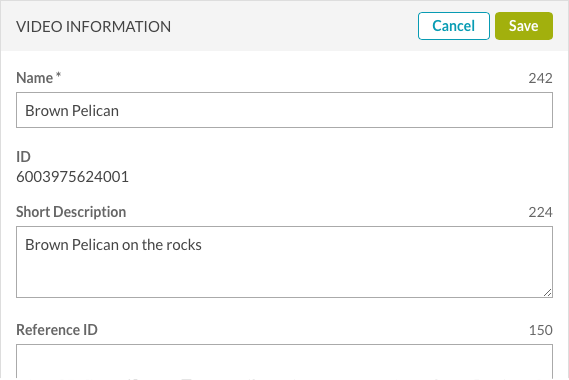
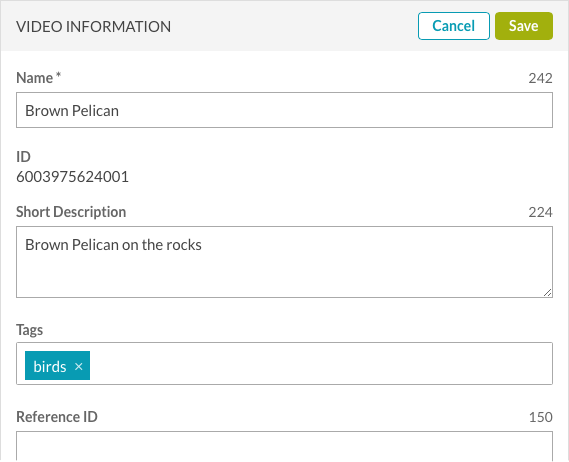
updates

diff --git a/_site/get-started/step-step-video-cloud-studio-publishing-workflow.html b/_site/get-started/step-step-video-cloud-studio-publishing-workflow.html
@@ -960,14 +960,11 @@ function doGTranslate(lang_pair) {if(lang_pair.value)lang_pair=lang_pair.value;i
     <p>In this task you will edit video properties.</p>
     <ol class="bcls-tasklist-restart">
       <li>In Video Cloud Studio, click <strong>Media</strong> to open the Media module.</li>
-      <li>Click on the title for the <strong>Brown Pelican</strong> video, locate the <strong>Video Information</strong> section and then click <strong>Edit</strong>. Set the <strong>Short Description</strong> to <code translate="No">Pelican on the rocks</code>.
+      <li>Click on the title for the <strong>Brown Pelican</strong> video, locate the <strong>Video Information</strong> section and then click <strong>Edit</strong>. Set the <strong>Short Description</strong> to <code translate="No">Pelican on the rocks</code>.</li>
+      <li>Add a <strong>Tag</strong> of <code translate="No">birds</code>.
         <figure class="bcls-figure"><img class="bcls-image--no-border" alt="" src="/assets/images/get-started/node18825-pelican-properties.png" /></figure>
       </li>
-      <li>Click <strong>Save</strong>.</li>
-      <li>In the <strong>Categorization</strong> section, add a <strong>Tag</strong> of <code translate="No">birds</code>.
-      <figure class="bcls-figure"><img class="bcls-image--no-border" alt="" src="/assets/images/get-started/node18825-pelican-tags.png" /></figure>
-      <p>Click <strong>Back to Videos</strong> to return to the list of videos.</p>
-      </li>
+      <li>Click <strong>Back to Videos</strong> to return to the list of videos.</li>
       <li>Click on the title for the <strong>http://learning-services-media.brightcove.com/vc-quick-start/oystercatcher.mp4</strong> video, locate the <strong>Video Information</strong> section and then click <strong>Edit</strong>. Set the following properties:
         <ul>
           <li><strong>Name:</strong> <code translate="No">Oystercatcher</code></li>

diff --git a/get-started/step-step-video-cloud-studio-publishing-workflow.html b/get-started/step-step-video-cloud-studio-publishing-workflow.html
@@ -76,14 +76,11 @@ parent: Getting Started
     <p>In this task you will edit video properties.</p>
     <ol class="bcls-tasklist-restart">
       <li>In Video Cloud Studio, click <strong>Media</strong> to open the Media module.</li>
-      <li>Click on the title for the <strong>Brown Pelican</strong> video, locate the <strong>Video Information</strong> section and then click <strong>Edit</strong>. Set the <strong>Short Description</strong> to <code translate="No">Pelican on the rocks</code>.
+      <li>Click on the title for the <strong>Brown Pelican</strong> video, locate the <strong>Video Information</strong> section and then click <strong>Edit</strong>. Set the <strong>Short Description</strong> to <code translate="No">Pelican on the rocks</code>.</li>
+      <li>Add a <strong>Tag</strong> of <code translate="No">birds</code>.
         <figure class="bcls-figure"><img class="bcls-image--no-border" alt="" src="/assets/images/get-started/node18825-pelican-properties.png" /></figure>
       </li>
-      <li>Click <strong>Save</strong>.</li>
-      <li>In the <strong>Categorization</strong> section, add a <strong>Tag</strong> of <code translate="No">birds</code>.
-      <figure class="bcls-figure"><img class="bcls-image--no-border" alt="" src="/assets/images/get-started/node18825-pelican-tags.png" /></figure>
-      <p>Click <strong>Back to Videos</strong> to return to the list of videos.</p>
-      </li>
+      <li>Click <strong>Back to Videos</strong> to return to the list of videos.</li>
       <li>Click on the title for the <strong>http://learning-services-media.brightcove.com/vc-quick-start/oystercatcher.mp4</strong> video, locate the <strong>Video Information</strong> section and then click <strong>Edit</strong>. Set the following properties:
         <ul>
           <li><strong>Name:</strong> <code translate="No">Oystercatcher</code></li>

diff --git a/_site/media/getting-started-media-module.html b/_site/media/getting-started-media-module.html
@@ -1023,7 +1023,7 @@ function doGTranslate(lang_pair) {if(lang_pair.value)lang_pair=lang_pair.value;i
 
 <hr>
 <div class="last-updated">
-  Page last updated on 28 Feb 2020
+  Page last updated on 06 Jan 2021
 </div>
 
 
